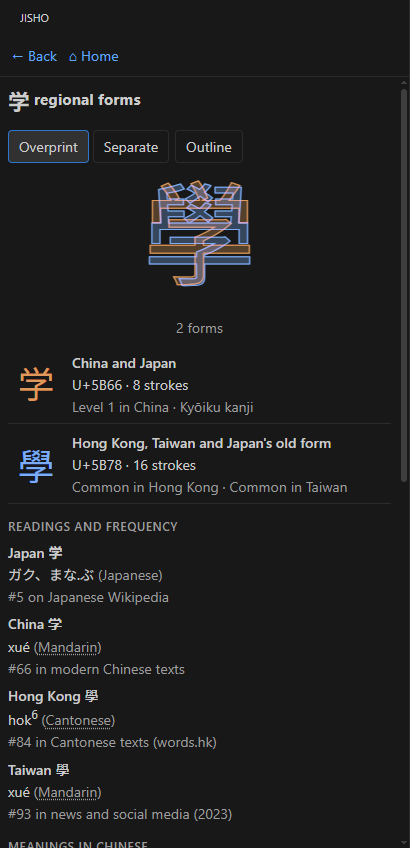
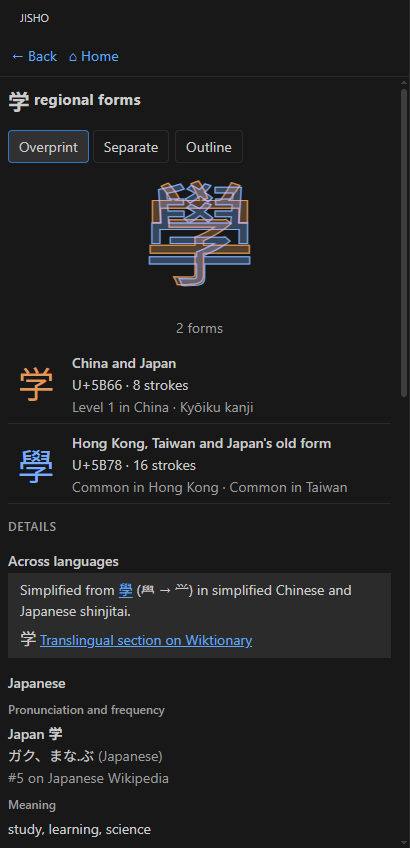
docs(readme): regenerate the Regional forms capture for Details, and describe it

Changed region(s): [[0.0, 0.6132, 0.6146, 1.0], [0.439, 0.6745, 0.8488, 0.7052], [0.9659, 0.4599, 0.9951, 0.5825]]

diff --git a/README.md b/README.md
@@ -248,7 +248,7 @@ For a jōyō kanji that China, Hong Kong or Taiwan writes differently, buttons a
 
 <picture>
   <source media="(prefers-color-scheme: dark)" srcset="docs/images/regional-forms-dark.png" />
-  <img align="right" hspace="12" width="42%" alt="The regional forms of 学: the forms 学 and 學 overlaid in two inks, then a chart with one row per form. 学 is written in China and Japan, U+5B66, 8 strokes; 學 in Hong Kong, Taiwan and as Japan's old form, U+5B78, 16 strokes. Each row names the lists the form is on. Below, each region's reading and frequency rank." src="docs/images/regional-forms-light.png" />
+  <img align="right" hspace="12" width="42%" alt="The regional forms of 学: the forms 学 and 學 overlaid in two inks, then a chart with one row per form. 学 is written in China and Japan, U+5B66, 8 strokes; 學 in Hong Kong, Taiwan and as Japan's old form, U+5B78, 16 strokes. Each row names the lists the form is on. Below, Details: Wiktionary's note that 学 is simplified from 學, then Japan's reading, frequency rank and meaning." src="docs/images/regional-forms-light.png" />
 </picture>
 
 ### Regional forms
